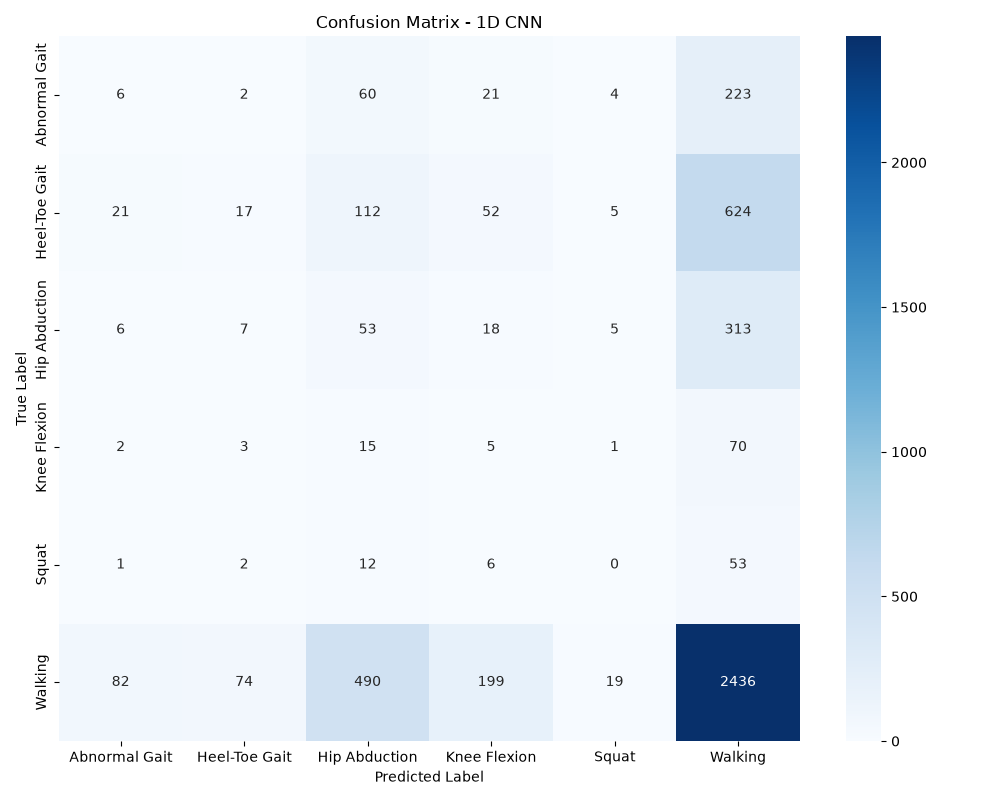
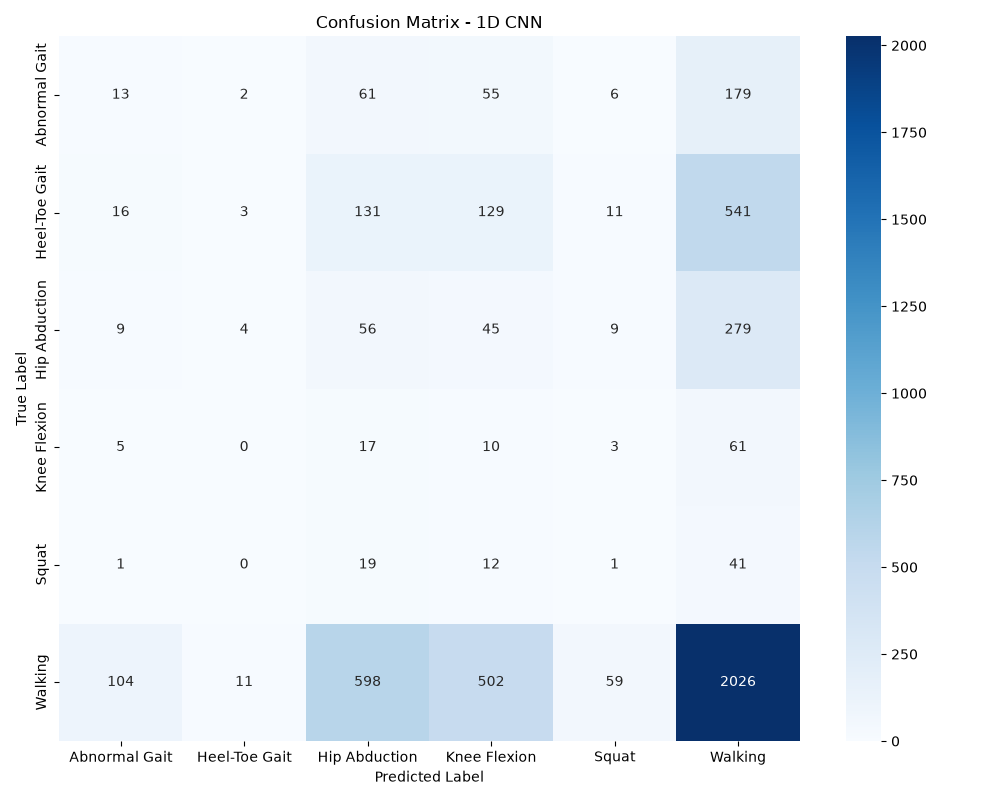
Phase 4: Complete model evaluation and comparison across all 7 models

diff --git a/src/models/evaluate_dl_models.py b/src/models/evaluate_dl_models.py
@@ -17,15 +17,12 @@ class Conv1DNet(nn.Module):
         self.relu = nn.ReLU()
         self.pool = nn.MaxPool1d(kernel_size=2)
         self.conv2 = nn.Conv1d(64, 128, kernel_size=5, stride=1, padding=2)
-        
-        # input is (B, 6, 200) -> conv/pool -> (B, 64, 100) -> conv/pool -> (B, 128, 50)
         self.flatten = nn.Flatten()
         self.fc1 = nn.Linear(128 * 50, 256)
         self.dropout = nn.Dropout(0.5)
         self.fc2 = nn.Linear(256, num_classes)
 
     def forward(self, x):
-        # x is expected as (B, C, L) where C=6, L=200
         x = self.pool(self.relu(self.conv1(x)))
         x = self.pool(self.relu(self.conv2(x)))
         x = self.flatten(x)
@@ -41,10 +38,45 @@ class LSTMNet(nn.Module):
         self.fc = nn.Linear(hidden_size, num_classes)
 
     def forward(self, x):
-        # x is expected as (B, L, C) where L=200, C=6
-        out, (hn, cn) = self.lstm(x)
-        # Take the output of the last time step
+        out, _ = self.lstm(x)
         out = self.fc(out[:, -1, :])
+        return out
+
+class CNN_LSTMNet(nn.Module):
+    def __init__(self, num_classes, in_channels=6, hidden_size=128):
+        super(CNN_LSTMNet, self).__init__()
+        self.conv1 = nn.Conv1d(in_channels, 64, kernel_size=5, stride=1, padding=2)
+        self.relu = nn.ReLU()
+        self.pool = nn.MaxPool1d(kernel_size=2)
+        self.conv2 = nn.Conv1d(64, 128, kernel_size=5, stride=1, padding=2)
+        
+        self.lstm = nn.LSTM(128, hidden_size, num_layers=2, batch_first=True, dropout=0.3)
+        self.fc = nn.Linear(hidden_size, num_classes)
+
+    def forward(self, x):
+        # x is (B, 6, 200)
+        x = self.pool(self.relu(self.conv1(x))) # (B, 64, 100)
+        x = self.pool(self.relu(self.conv2(x))) # (B, 128, 50)
+        x = x.permute(0, 2, 1) # (B, 50, 128)
+        
+        out, _ = self.lstm(x)
+        out = self.fc(out[:, -1, :])
+        return out
+
+class TransformerNet(nn.Module):
+    def __init__(self, num_classes, input_size=6, d_model=32, nhead=2, num_layers=1):
+        super(TransformerNet, self).__init__()
+        self.embedding = nn.Linear(input_size, d_model)
+        encoder_layer = nn.TransformerEncoderLayer(d_model=d_model, nhead=nhead, batch_first=True, dropout=0.3)
+        self.transformer_encoder = nn.TransformerEncoder(encoder_layer, num_layers=num_layers)
+        self.fc = nn.Linear(d_model, num_classes)
+
+    def forward(self, x):
+        # x is (B, 200, 6)
+        x = self.embedding(x)
+        x = self.transformer_encoder(x)
+        x = x.mean(dim=1)
+        out = self.fc(x)
         return out
 
 def load_data(data_dir="datasets/ml_ready"):
@@ -54,7 +86,6 @@ def load_data(data_dir="datasets/ml_ready"):
     y_train_df = pd.read_csv(os.path.join(data_dir, "y_train.csv")).squeeze()
     y_test_df = pd.read_csv(os.path.join(data_dir, "y_test.csv")).squeeze()
     
-    # Map string labels to integer indices
     classes = sorted(list(set(y_train_df.unique()).union(set(y_test_df.unique()))))
     label_to_idx = {c: i for i, c in enumerate(classes)}
     
@@ -91,13 +122,9 @@ def train_and_evaluate(model, model_name, train_loader, X_test, y_test, classes,
     
     train_time = time.time() - start_time
     
-    # Inference
     model.eval()
     start_time = time.time()
     
-    # Convert Test data to correct shape
-    # CNN expects (B, Channels, Length) -> (B, 6, 200)
-    # LSTM expects (B, Length, Channels) -> (B, 200, 6)
     if is_cnn:
         X_test_tensor = torch.tensor(X_test, dtype=torch.float32).transpose(1, 2).to(device)
     else:
@@ -122,8 +149,6 @@ def train_and_evaluate(model, model_name, train_loader, X_test, y_test, classes,
     print(classification_report(y_test, y_pred, target_names=classes))
     
     os.makedirs("results", exist_ok=True)
-    
-    # Save Confusion Matrix Plot
     cm = confusion_matrix(y_test, y_pred)
     plt.figure(figsize=(10, 8))
     sns.heatmap(cm, annot=True, fmt='d', cmap='Blues', 
@@ -135,7 +160,6 @@ def train_and_evaluate(model, model_name, train_loader, X_test, y_test, classes,
     plt.savefig(f"results/confusion_matrix_{model_name.replace(' ', '_').lower()}.png")
     plt.close()
     
-    # Append to results summary
     summary_file = "results/results_summary.csv"
     file_exists = os.path.isfile(summary_file)
     with open(summary_file, 'a') as f:
@@ -151,24 +175,24 @@ def run_track_b():
     print(f"Train Shape: {X_train.shape}, Test Shape: {X_test.shape}")
     num_classes = len(classes)
     
-    # Create DataLoaders
-    # For CNN: shape needs to be (Batch, Channels, Length)
     X_train_cnn = np.transpose(X_train, (0, 2, 1))
     
     train_dataset_cnn = TensorDataset(torch.tensor(X_train_cnn, dtype=torch.float32), torch.tensor(y_train, dtype=torch.long))
     train_loader_cnn = DataLoader(train_dataset_cnn, batch_size=64, shuffle=True)
     
-    # For LSTM: shape needs to be (Batch, Length, Channels)
     train_dataset_lstm = TensorDataset(torch.tensor(X_train, dtype=torch.float32), torch.tensor(y_train, dtype=torch.long))
     train_loader_lstm = DataLoader(train_dataset_lstm, batch_size=64, shuffle=True)
     
-    # 1. Evaluate 1D CNN
     cnn_model = Conv1DNet(num_classes=num_classes)
     train_and_evaluate(cnn_model, "1D CNN", train_loader_cnn, X_test, y_test, classes, is_cnn=True)
     
-    # 2. Evaluate LSTM
     lstm_model = LSTMNet(num_classes=num_classes)
     train_and_evaluate(lstm_model, "LSTM", train_loader_lstm, X_test, y_test, classes, is_cnn=False)
+    
+    cnn_lstm_model = CNN_LSTMNet(num_classes=num_classes)
+    train_and_evaluate(cnn_lstm_model, "CNN_LSTM", train_loader_cnn, X_test, y_test, classes, is_cnn=True)
+    transformer_model = TransformerNet(num_classes=num_classes)
+    train_and_evaluate(transformer_model, "Transformer", train_loader_lstm, X_test, y_test, classes, is_cnn=False)
 
 if __name__ == "__main__":
     run_track_b()

diff --git a/src/models/evaluate_models.py b/src/models/evaluate_models.py
@@ -5,6 +5,8 @@ import time
 from sklearn.ensemble import RandomForestClassifier
 from sklearn.svm import SVC
 from sklearn.metrics import accuracy_score, precision_recall_fscore_support, classification_report, confusion_matrix
+from sklearn.preprocessing import LabelEncoder
+from xgboost import XGBClassifier
 import joblib
 import matplotlib.pyplot as plt
 import seaborn as sns
@@ -18,7 +20,7 @@ def load_data(data_dir="datasets/ml_ready"):
     
     return X_train, y_train, X_test, y_test
 
-def evaluate_model(model, name, X_train, y_train, X_test, y_test):
+def evaluate_model(model, name, X_train, y_train, X_test, y_test, class_names):
     print(f"\n{'='*40}")
     print(f"Evaluating Model: {name}")
     print(f"{'='*40}")
@@ -42,7 +44,7 @@ def evaluate_model(model, name, X_train, y_train, X_test, y_test):
     print(f"Recall         : {recall*100:.2f}%")
     
     print("\nDetailed Classification Report:")
-    print(classification_report(y_test, y_pred))
+    print(classification_report(y_test, y_pred, target_names=class_names))
     
     os.makedirs("results", exist_ok=True)
     
@@ -50,7 +52,7 @@ def evaluate_model(model, name, X_train, y_train, X_test, y_test):
     cm = confusion_matrix(y_test, y_pred)
     plt.figure(figsize=(10, 8))
     sns.heatmap(cm, annot=True, fmt='d', cmap='Blues', 
-                xticklabels=np.unique(y_test), yticklabels=np.unique(y_test))
+                xticklabels=class_names, yticklabels=class_names)
     plt.ylabel('True Label')
     plt.xlabel('Predicted Label')
     plt.title(f'Confusion Matrix - {name}')
@@ -72,13 +74,20 @@ def run_track_a():
     """Track A: Feature-Based Models"""
     X_train, y_train, X_test, y_test = load_data()
     
-    # Handle NaNs from FFT features (if any division by zero occurred)
+    # Handle NaNs from FFT features
     X_train = X_train.fillna(0)
     X_test = X_test.fillna(0)
     
+    # Encode labels for XGBoost compatibility
+    le = LabelEncoder()
+    y_train_encoded = le.fit_transform(y_train)
+    y_test_encoded = le.transform(y_test)
+    class_names = le.classes_
+    
     models = {
         "Random Forest (Baseline)": RandomForestClassifier(n_estimators=100, random_state=42, n_jobs=-1),
-        "SVM (Linear)": SVC(kernel='linear', random_state=42)
+        "SVM (Linear)": SVC(kernel='linear', random_state=42),
+        "XGBoost": XGBClassifier(n_estimators=100, random_state=42, n_jobs=-1)
     }
     
     best_f1 = 0
@@ -86,7 +95,7 @@ def run_track_a():
     best_name = ""
     
     for name, model in models.items():
-        trained_model, acc, f1 = evaluate_model(model, name, X_train, y_train, X_test, y_test)
+        trained_model, acc, f1 = evaluate_model(model, name, X_train, y_train_encoded, X_test, y_test_encoded, class_names)
         if f1 > best_f1:
             best_f1 = f1
             best_model = trained_model
@@ -97,6 +106,7 @@ def run_track_a():
     # Save the best model
     os.makedirs("models", exist_ok=True)
     joblib.dump(best_model, f"models/track_a_best_{best_name.replace(' ', '_').lower()}.pkl")
+    joblib.dump(le, "models/label_encoder.pkl")
 
 if __name__ == "__main__":
     run_track_a()
